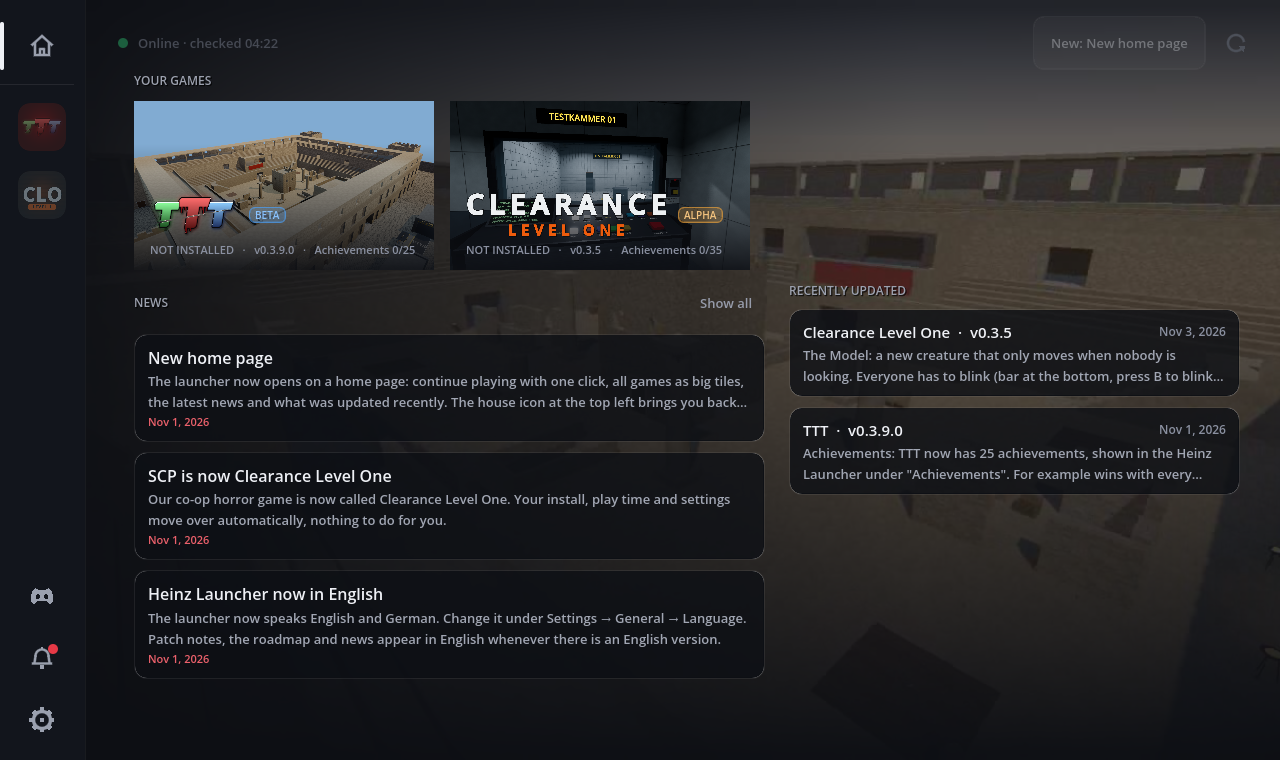
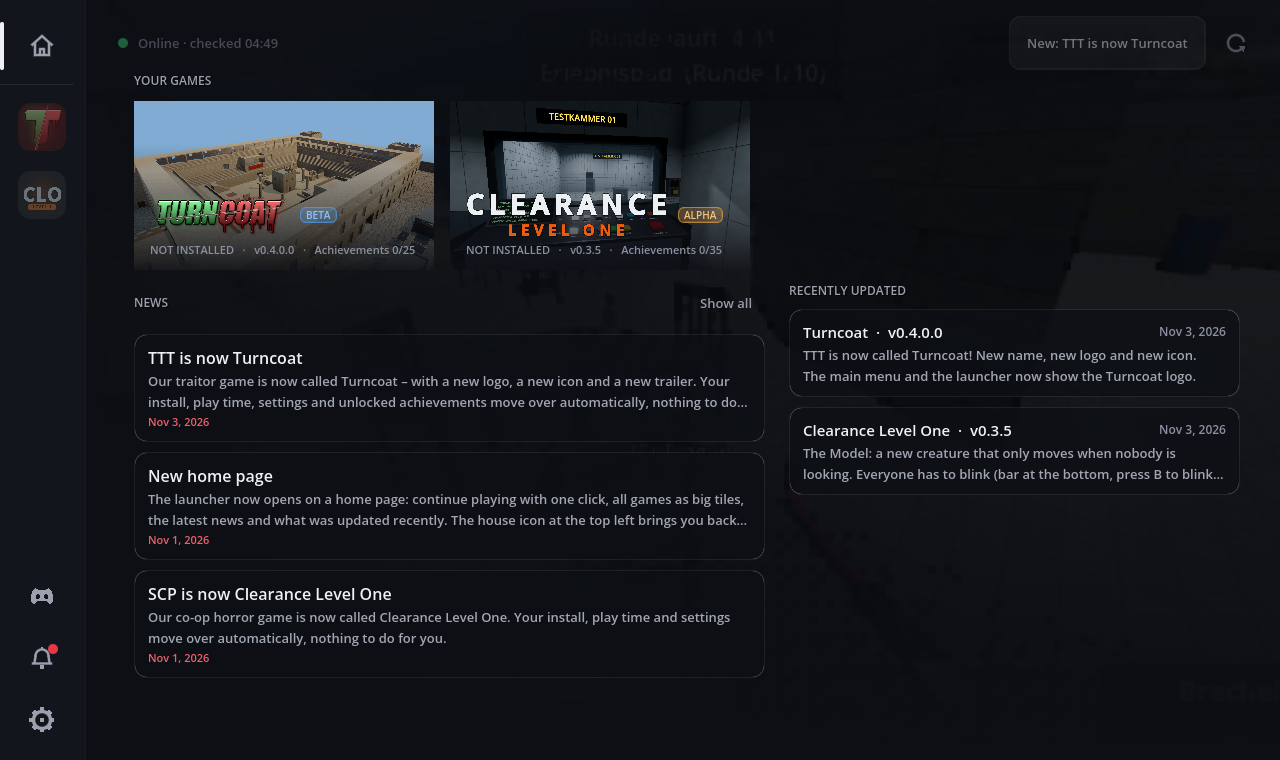
README: TTT is now Turncoat

diff --git a/README.md b/README.md
@@ -35,13 +35,13 @@ As a team of a secret Foundation you study anomalies instead of running from the
 
 <p><img src="docs/clo_en.png" alt="Clearance Level One in the launcher" width="720"></p>
 
-<p><img src="docs/ttt_logo.png" alt="TTT" height="80"></p>
+<p><img src="docs/turncoat_logo.png" alt="Turncoat" height="80"></p>
 
-**TTT** · *Beta* · multiplayer traitor game
+**Turncoat** · *Beta* · multiplayer traitor game (formerly TTT)
 
-Traitors are hiding among you – find them with detective tools before they take you out with C4, traps and tricks. 12 detailed maps, a lobby code to join without port forwarding, and a bus that drives you from round to round.
+*One of you is a turncoat.* Traitors are hiding among you – find them with detective tools before they take you out with C4, traps and tricks. 12 detailed maps, a lobby code to join without port forwarding, and a bus that drives you from round to round.
 
-<p><img src="docs/ttt_en.png" alt="TTT in the launcher" width="720"></p>
+<p><img src="docs/turncoat_en.png" alt="Turncoat in the launcher" width="720"></p>
 
 ## Features
 
